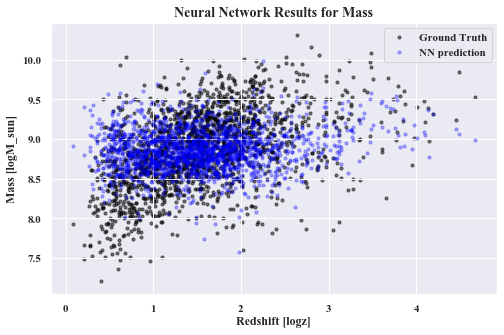
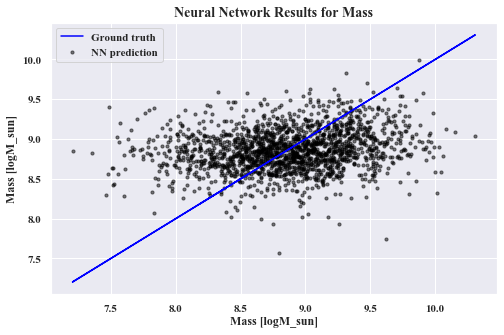
plots + readme changes

diff --git a/README.md b/README.md
@@ -63,11 +63,11 @@ To match the Stripe 82 and the DR7 catalog data to get most relevant information
 
 # Plots
 
-<img src ="./plots/skymap.png" alt="plot" title="skymap" width="400" height="300" />
+<img src ="./plots/skymap.png" alt="plot" title="skymap" width="800" height="600" />
 
-<img src ="./plots/mass_hist.png" alt="plot" title="mass histogram" width="400" height="300" />
+<img src ="./plots/mass_hist.png" alt="plot" title="mass histogram" width="800" height="600" />
 
-<img src ="./plots/mass_scatter.png" alt="plot" title="mass scatter" width="400" height="300" />
+<img src ="./plots/mass_scatter.png" alt="plot" title="mass scatter" width="800" height="600" />
 
 <img src ="./plots/light_curve.png" alt="plot" title="light curve" width="400" height="300" />
 
@@ -84,9 +84,12 @@ To match the Stripe 82 and the DR7 catalog data to get most relevant information
 
 <img src ="./plots/mass_results.png" alt="plot" title="results for mass" width="400" height="300" />
 
+<img src ="./plots/mass_results_z.png" alt="plot" title="results for mass" width="400" height="300" />
+
 <img src ="./joint_plots/mass_mass.png" alt="plot" title="results for mass" width="400" height="400" />
 
 <img src ="./joint_plots/z_z.png" alt="plot" title="results for redshift" width="400" height="400" />
+
 # References
 
 1. Pasquet-Itam, J., and J. Pasquet. “Deep Learning Approach for Classifying, Detecting Andpredicting Photometric Redshifts of Quasars in the Sloan DigitalSky Survey Stripe 82.” Astronomy & Astrophysics, vol. 611, 2018
